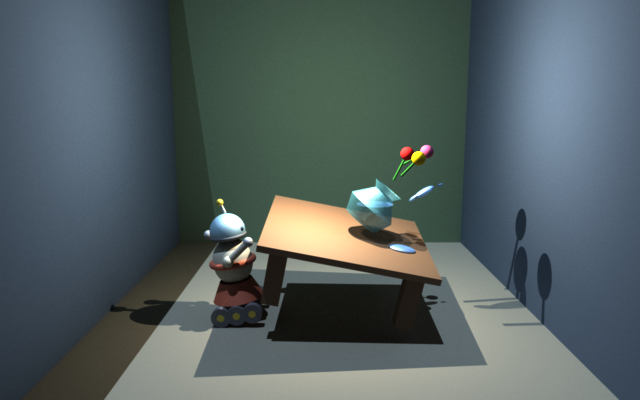
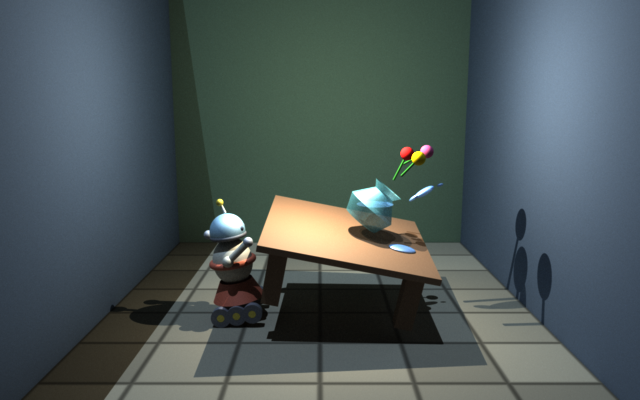
docs(gman): re-render the vase samples with the tiled floor
Render the sample scene again with the tiled floor: the ray-traced picture at
the top of the README, the path-traced one at 64 samples, the z-buffer preview
and the five poke pictures. Each was first reproduced from the previous scene to
within one changed pixel, so the settings match the committed images.

The README's try-it paragraph names samples/floor16.tif as the floor.

diff --git a/README.md b/README.md
@@ -54,7 +54,8 @@ From the unpacked folder:
 gman -r gmanraytracer samples/vase.rib
 ```
 
-That writes `vase.png` to the current directory, the picture at the top, in a few seconds.
+That writes `vase.png` to the current directory, the picture at the top, in a few seconds. The floor
+tiles come from `samples/floor16.tif`, a 16-bit TIFF that gman reads at full depth.
 
 ## Path trace it
 
